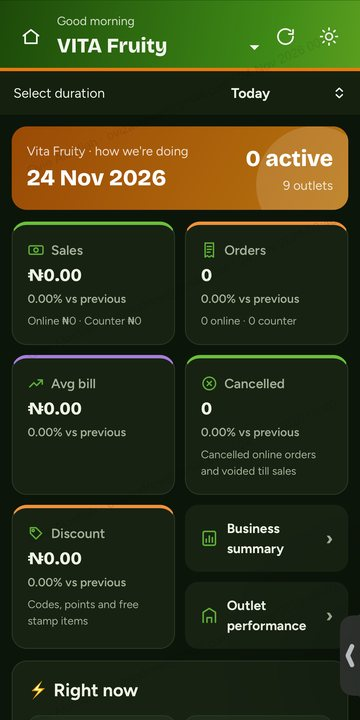
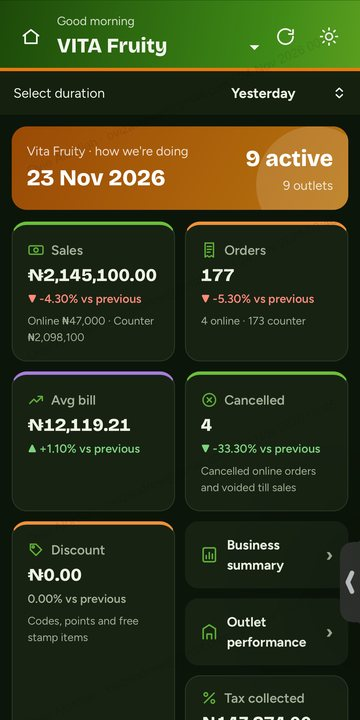
Dashboard screen with a full day of real activity
Claude-Session: https://claude.ai/code/session_01EWpM6U7z4mwSmJVXge6f6S

diff --git a/index.html b/index.html
@@ -262,8 +262,8 @@ details p{margin:12px 0 0 0;font-size:15px;line-height:1.65;color:#34404F}
 </div>
 <div style="display:flex;flex-direction:column;gap:14px">
 <div style="display:flex;justify-content:space-between;align-items:flex-end;flex-wrap:wrap;gap:8px"><h3 style="margin:0;font-family:Montserrat,Arial,sans-serif;font-size:24px;color:#0B1B33">Inside Vita Hub, the staff and owner app</h3><span style="font-size:13px;color:#4A5666">Swipe to see more →</span></div>
-<div style="display:flex;gap:20px;overflow-x:auto;scroll-snap-type:x mandatory;padding:6px 4px 18px 4px"><figure style="flex:0 0 220px;margin:0;scroll-snap-align:start"><div style="background:#0B1B33;border-radius:30px;padding:8px;box-shadow:0 14px 34px rgba(11,27,51,.18)"><img src="hub-till.jpg" alt="Vita Hub: The till" width="360" height="720" loading="lazy" style="width:100%;height:auto;display:block;border-radius:23px"></div><figcaption style="margin-top:12px"><div style="font-weight:800;font-size:15px;color:#0B1B33">The till</div><div style="font-size:13px;line-height:1.5;color:#4A5666">Tap to sell, with live stock left on each item</div></figcaption></figure><figure style="flex:0 0 220px;margin:0;scroll-snap-align:start"><div style="background:#0B1B33;border-radius:30px;padding:8px;box-shadow:0 14px 34px rgba(11,27,51,.18)"><img src="hub-glance.jpg" alt="Vita Hub: Owner dashboard" width="360" height="720" loading="lazy" style="width:100%;height:auto;display:block;border-radius:23px"></div><figcaption style="margin-top:12px"><div style="font-weight:800;font-size:15px;color:#0B1B33">Owner dashboard</div><div style="font-size:13px;line-height:1.5;color:#4A5666">Sales, orders and discounts across 9 outlets</div></figcaption></figure><figure style="flex:0 0 220px;margin:0;scroll-snap-align:start"><div style="background:#0B1B33;border-radius:30px;padding:8px;box-shadow:0 14px 34px rgba(11,27,51,.18)"><img src="hub-risk.jpg" alt="Vita Hub: Money at risk" width="360" height="720" loading="lazy" style="width:100%;height:auto;display:block;border-radius:23px"></div><figcaption style="margin-top:12px"><div style="font-weight:800;font-size:15px;color:#0B1B33">Money at risk</div><div style="font-size:13px;line-height:1.5;color:#4A5666">Voids, refunds, cash short, wastage and missing stock</div></figcaption></figure><figure style="flex:0 0 220px;margin:0;scroll-snap-align:start"><div style="background:#0B1B33;border-radius:30px;padding:8px;box-shadow:0 14px 34px rgba(11,27,51,.18)"><img src="hub-now.jpg" alt="Vita Hub: Right now" width="360" height="720" loading="lazy" style="width:100%;height:auto;display:block;border-radius:23px"></div><figcaption style="margin-top:12px"><div style="font-weight:800;font-size:15px;color:#0B1B33">Right now</div><div style="font-size:13px;line-height:1.5;color:#4A5666">Tills open, approvals waiting and items to use soon</div></figcaption></figure><figure style="flex:0 0 220px;margin:0;scroll-snap-align:start"><div style="background:#0B1B33;border-radius:30px;padding:8px;box-shadow:0 14px 34px rgba(11,27,51,.18)"><img src="hub-approve.jpg" alt="Vita Hub: Approvals" width="360" height="720" loading="lazy" style="width:100%;height:auto;display:block;border-radius:23px"></div><figcaption style="margin-top:12px"><div style="font-weight:800;font-size:15px;color:#0B1B33">Approvals</div><div style="font-size:13px;line-height:1.5;color:#4A5666">Factory lists, stock counts, transfers and purchases</div></figcaption></figure><figure style="flex:0 0 220px;margin:0;scroll-snap-align:start"><div style="background:#0B1B33;border-radius:30px;padding:8px;box-shadow:0 14px 34px rgba(11,27,51,.18)"><img src="hub-hr.jpg" alt="Vita Hub: Staff clock-in" width="360" height="720" loading="lazy" style="width:100%;height:auto;display:block;border-radius:23px"></div><figcaption style="margin-top:12px"><div style="font-weight:800;font-size:15px;color:#0B1B33">Staff clock-in</div><div style="font-size:13px;line-height:1.5;color:#4A5666">Face and location check, duty days, leave and payslips</div></figcaption></figure><figure style="flex:0 0 220px;margin:0;scroll-snap-align:start"><div style="background:#0B1B33;border-radius:30px;padding:8px;box-shadow:0 14px 34px rgba(11,27,51,.18)"><img src="hub-home.jpg" alt="Vita Hub: Vita Hub home" width="360" height="720" loading="lazy" style="width:100%;height:auto;display:block;border-radius:23px"></div><figcaption style="margin-top:12px"><div style="font-weight:800;font-size:15px;color:#0B1B33">Vita Hub home</div><div style="font-size:13px;line-height:1.5;color:#4A5666">HR, spending requests, repairs and Vita AI</div></figcaption></figure></div>
-<p style="margin:0;font-size:13px;color:#4A5666">Real screens from Vita Fruity's live system, taken outside trading hours.</p>
+<div style="display:flex;gap:20px;overflow-x:auto;scroll-snap-type:x mandatory;padding:6px 4px 18px 4px"><figure style="flex:0 0 220px;margin:0;scroll-snap-align:start"><div style="background:#0B1B33;border-radius:30px;padding:8px;box-shadow:0 14px 34px rgba(11,27,51,.18)"><img src="hub-till.jpg" alt="Vita Hub: The till" width="360" height="720" loading="lazy" style="width:100%;height:auto;display:block;border-radius:23px"></div><figcaption style="margin-top:12px"><div style="font-weight:800;font-size:15px;color:#0B1B33">The till</div><div style="font-size:13px;line-height:1.5;color:#4A5666">Tap to sell, with live stock left on each item</div></figcaption></figure><figure style="flex:0 0 220px;margin:0;scroll-snap-align:start"><div style="background:#0B1B33;border-radius:30px;padding:8px;box-shadow:0 14px 34px rgba(11,27,51,.18)"><img src="hub-glance.jpg" alt="Vita Hub: Owner dashboard" width="360" height="720" loading="lazy" style="width:100%;height:auto;display:block;border-radius:23px"></div><figcaption style="margin-top:12px"><div style="font-weight:800;font-size:15px;color:#0B1B33">Owner dashboard</div><div style="font-size:13px;line-height:1.5;color:#4A5666">A full day's sales, orders and average bill across 9 outlets</div></figcaption></figure><figure style="flex:0 0 220px;margin:0;scroll-snap-align:start"><div style="background:#0B1B33;border-radius:30px;padding:8px;box-shadow:0 14px 34px rgba(11,27,51,.18)"><img src="hub-risk.jpg" alt="Vita Hub: Money at risk" width="360" height="720" loading="lazy" style="width:100%;height:auto;display:block;border-radius:23px"></div><figcaption style="margin-top:12px"><div style="font-weight:800;font-size:15px;color:#0B1B33">Money at risk</div><div style="font-size:13px;line-height:1.5;color:#4A5666">Voids, refunds, cash short, wastage and missing stock</div></figcaption></figure><figure style="flex:0 0 220px;margin:0;scroll-snap-align:start"><div style="background:#0B1B33;border-radius:30px;padding:8px;box-shadow:0 14px 34px rgba(11,27,51,.18)"><img src="hub-now.jpg" alt="Vita Hub: Right now" width="360" height="720" loading="lazy" style="width:100%;height:auto;display:block;border-radius:23px"></div><figcaption style="margin-top:12px"><div style="font-weight:800;font-size:15px;color:#0B1B33">Right now</div><div style="font-size:13px;line-height:1.5;color:#4A5666">Tills open, approvals waiting and items to use soon</div></figcaption></figure><figure style="flex:0 0 220px;margin:0;scroll-snap-align:start"><div style="background:#0B1B33;border-radius:30px;padding:8px;box-shadow:0 14px 34px rgba(11,27,51,.18)"><img src="hub-approve.jpg" alt="Vita Hub: Approvals" width="360" height="720" loading="lazy" style="width:100%;height:auto;display:block;border-radius:23px"></div><figcaption style="margin-top:12px"><div style="font-weight:800;font-size:15px;color:#0B1B33">Approvals</div><div style="font-size:13px;line-height:1.5;color:#4A5666">Factory lists, stock counts, transfers and purchases</div></figcaption></figure><figure style="flex:0 0 220px;margin:0;scroll-snap-align:start"><div style="background:#0B1B33;border-radius:30px;padding:8px;box-shadow:0 14px 34px rgba(11,27,51,.18)"><img src="hub-hr.jpg" alt="Vita Hub: Staff clock-in" width="360" height="720" loading="lazy" style="width:100%;height:auto;display:block;border-radius:23px"></div><figcaption style="margin-top:12px"><div style="font-weight:800;font-size:15px;color:#0B1B33">Staff clock-in</div><div style="font-size:13px;line-height:1.5;color:#4A5666">Face and location check, duty days, leave and payslips</div></figcaption></figure><figure style="flex:0 0 220px;margin:0;scroll-snap-align:start"><div style="background:#0B1B33;border-radius:30px;padding:8px;box-shadow:0 14px 34px rgba(11,27,51,.18)"><img src="hub-home.jpg" alt="Vita Hub: Vita Hub home" width="360" height="720" loading="lazy" style="width:100%;height:auto;display:block;border-radius:23px"></div><figcaption style="margin-top:12px"><div style="font-weight:800;font-size:15px;color:#0B1B33">Vita Hub home</div><div style="font-size:13px;line-height:1.5;color:#4A5666">HR, spending requests, repairs and Vita AI</div></figcaption></figure></div>
+<p style="margin:0;font-size:13px;color:#4A5666">Real screens from Vita Fruity's live system.</p>
 </div>
 <div style="display:grid;grid-template-columns:repeat(auto-fit,minmax(220px,1fr));gap:14px"><div style="background:#ffffff;border-radius:16px;padding:18px;border-left:5px solid #D9630B"><div style="font-weight:800;font-size:16px;color:#0B1B33;margin-bottom:4px">Customer website and app</div><div style="font-size:14px;line-height:1.55;color:#34404F">Menu, outlets, events and an installable app for Android.</div></div><div style="background:#ffffff;border-radius:16px;padding:18px;border-left:5px solid #1FA54A"><div style="font-weight:800;font-size:16px;color:#0B1B33;margin-bottom:4px">Online ordering</div><div style="font-size:14px;line-height:1.55;color:#34404F">Pickup and delivery, online payment, order tracking, loyalty points and stamp cards.</div></div><div style="background:#ffffff;border-radius:16px;padding:18px;border-left:5px solid #1E6BF0"><div style="font-weight:800;font-size:16px;color:#0B1B33;margin-bottom:4px">Vita Hub for staff</div><div style="font-size:14px;line-height:1.55;color:#34404F">Offline till, kitchen orders, factory production, stock, HR, payroll and daily reports.</div></div><div style="background:#ffffff;border-radius:16px;padding:18px;border-left:5px solid #6B3FD4"><div style="font-weight:800;font-size:16px;color:#0B1B33;margin-bottom:4px">Owner at a glance</div><div style="font-size:14px;line-height:1.55;color:#34404F">Live sales, top items, busy hours and every outlet's position on the owner's phone.</div></div></div>
 <div style="display:flex;flex-wrap:wrap;gap:12px;align-items:center"><a href="https://vitafruity.com" target="_blank" rel="noopener" style="background:#D9630B;color:#ffffff;text-decoration:none;padding:14px 24px;border-radius:999px;font-weight:700">Visit vitafruity.com →</a><span style="font-size:14px;color:#4A5666">Ask for a live walkthrough of the staff system in your demo.</span></div>
